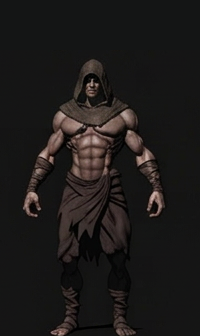
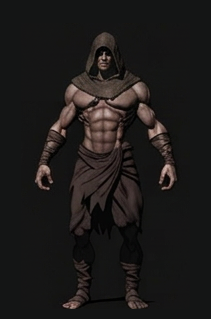
Add files via upload

Changed region(s): [[0.12, 0.0846, 0.84, 0.79], [0.57, 0.8182, 0.69, 1.0], [0.24, 0.8182, 0.42, 1.0]]

diff --git a/iron-chronicle.html b/iron-chronicle.html
@@ -1385,13 +1385,14 @@ to { text-shadow:0 0 60px rgba(200,150,40,1),0 0 100px rgba(200,150,40,0.4); }
 .character-portrait {
   display:block;
   width:140px;
-  height:235px;
+  height:212px;
   margin:0 auto 12px;
-  border:2px solid var(--border-gold);
-  border-radius:2px;
-  background:var(--bg3);
+  border:none;
+  background:transparent;
   object-fit:contain;
-  box-shadow:0 0 20px rgba(200,150,40,0.15),inset 0 0 30px rgba(0,0,0,0.5);
+  filter:drop-shadow(0 0 16px rgba(200,150,40,0.12));
+  -webkit-mask-image:radial-gradient(ellipse 62% 88% at 50% 46%, #000 62%, transparent 100%);
+  mask-image:radial-gradient(ellipse 62% 88% at 50% 46%, #000 62%, transparent 100%);
 }
 
 .boss-portrait {

diff --git a/js/data.js b/js/data.js
@@ -1,4 +1,4 @@
-export const GAME_VERSION = 'v0.39 · 2026-07-13';
+export const GAME_VERSION = 'v0.40 · 2026-07-13';
 export const STORAGE_KEY  = 'ironChronicle_v1';
 
 export const LEVELS = [
